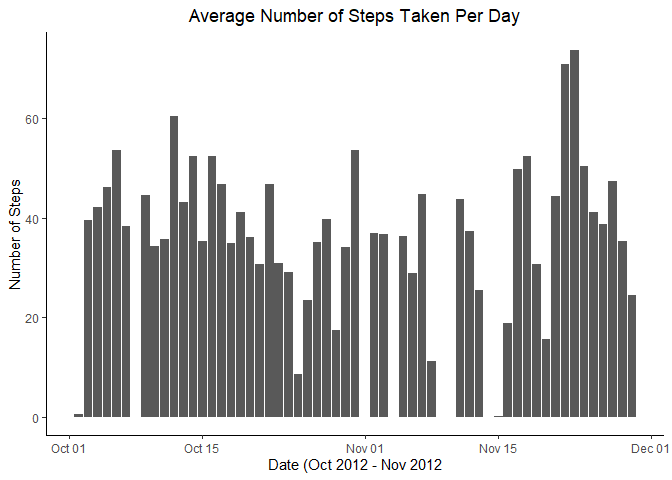
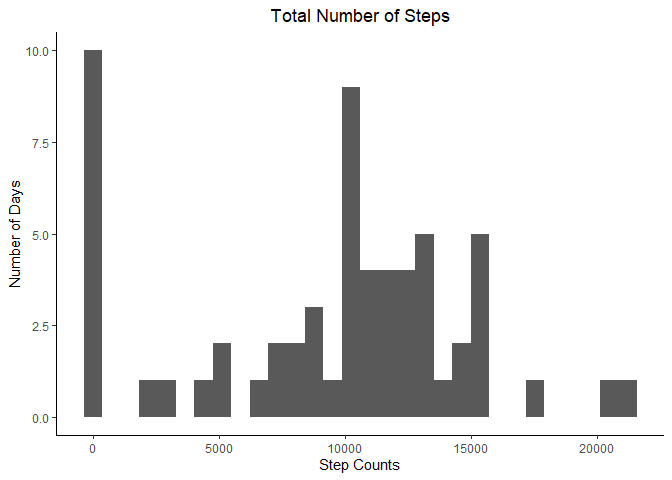
Completed the assignment.

diff --git a/PA1_template.html b/PA1_template.html
@@ -378,31 +378,112 @@ head(data)</code></pre>
 ## 4    NA 2012-10-01       15
 ## 5    NA 2012-10-01       20
 ## 6    NA 2012-10-01       25</code></pre>
-<pre class="r"><code>data$date &lt;- as.Date(data$date)</code></pre>
+<pre class="r"><code>data$date &lt;- as.Date(data$date)
+data$steps[data$steps == 0] &lt;- NA</code></pre>
 </div>
 <div id="what-is-mean-total-number-of-steps-taken-per-day" class="section level2">
 <h2>What is mean total number of steps taken per day?</h2>
 <pre class="r"><code>mean_steps &lt;- summarise(group_by(data, date), steps = mean(steps, na.rm = TRUE))</code></pre>
 <pre><code>## `summarise()` ungrouping output (override with `.groups` argument)</code></pre>
-<pre class="r"><code>g &lt;- ggplot(mean_steps, aes(x = date, y = steps)) + geom_bar(stat = &quot;identity&quot;) +
-  xlab(&quot;Date (Oct 2012 - Nov 2012&quot;) +
-  ylab(&quot;Number of Steps&quot;) +
-  ggtitle(&quot;Average Number of Steps Taken Per Day&quot;) +
+<pre class="r"><code>sum_steps &lt;- summarise(group_by(data, date), steps = sum(steps, na.rm = TRUE))</code></pre>
+<pre><code>## `summarise()` ungrouping output (override with `.groups` argument)</code></pre>
+<pre class="r"><code>g &lt;- ggplot(sum_steps, aes(x = steps)) + geom_histogram() +
+  xlab(&quot;Step Counts&quot;) +
+  ylab(&quot;Number of Days&quot;) +
+  ggtitle(&quot;Total Number of Steps&quot;) +
   theme_classic() +
   theme(plot.title = element_text(hjust = 0.5))
   
 g</code></pre>
-<pre><code>## Warning: Removed 8 rows containing missing values (position_stack).</code></pre>
[1 lines of base64/hex data omitted]
+<pre><code>## `stat_bin()` using `bins = 30`. Pick better value with `binwidth`.</code></pre>
[1 lines of base64/hex data omitted]
+<pre class="r"><code>mean_total &lt;- mean(sum_steps$steps, na.rm = TRUE)
+median_total &lt;- median(sum_steps$steps, na.rm = TRUE)
+
+print(paste(&quot;The mean value of steps per day:&quot;, round(mean_total,2)))</code></pre>
+<pre><code>## [1] &quot;The mean value of steps per day: 9354.23&quot;</code></pre>
+<pre class="r"><code>print(paste(&quot;The median value of steps per day:&quot;, median_total))</code></pre>
+<pre><code>## [1] &quot;The median value of steps per day: 10395&quot;</code></pre>
 </div>
 <div id="what-is-the-average-daily-activity-pattern" class="section level2">
 <h2>What is the average daily activity pattern?</h2>
+<pre class="r"><code>interval_data &lt;- summarise(group_by(data, interval), steps = mean(steps, na.rm = TRUE))</code></pre>
+<pre><code>## `summarise()` ungrouping output (override with `.groups` argument)</code></pre>
+<pre class="r"><code>interval_plot &lt;- ggplot(interval_data, aes(x = interval, y = steps)) + geom_line() +
+  ggtitle(&quot;Mean Steps per 5 Minute Interval&quot;) +
+  theme_classic() +
+  xlab(&quot;5 Minute Interval&quot;) +
+  ylab(&quot;Mean Steps&quot;) +
+  theme(plot.title = element_text(hjust = 0.5))
+interval_plot</code></pre>
[1 lines of base64/hex data omitted]
+<pre class="r"><code>print(paste(&quot;The interval containing the most steps on average: &quot;, interval_data$interval[which.max(interval_data$steps)]))</code></pre>
+<pre><code>## [1] &quot;The interval containing the most steps on average:  835&quot;</code></pre>
+<pre class="r"><code>print(paste(&quot;The average number of steps per that interval: &quot;, round(max(interval_data$steps, na.rm = TRUE), 2)))</code></pre>
+<pre><code>## [1] &quot;The average number of steps per that interval:  352.48&quot;</code></pre>
 </div>
 <div id="imputing-missing-values" class="section level2">
 <h2>Imputing missing values</h2>
+<pre class="r"><code>data_NA &lt;- read.csv(&quot;activity.csv&quot;)
+
+print(paste(&quot;The number of NA values in this dataset are: &quot;, sum(is.na(data_NA$steps))))</code></pre>
+<pre><code>## [1] &quot;The number of NA values in this dataset are:  2304&quot;</code></pre>
+<div id="missing-data-strategy" class="section level3">
+<h3>Missing Data Strategy</h3>
+<p>We can utilize the impute function in R. We will use the means to impute the missing values.</p>
+<pre class="r"><code>data_NA$steps &lt;- impute(data_NA$steps, fun = mean)
+
+sum_steps_NA &lt;- summarise(group_by(data_NA, date), steps = sum(steps, na.rm = TRUE))</code></pre>
+<pre><code>## `summarise()` ungrouping output (override with `.groups` argument)</code></pre>
+<pre class="r"><code>g &lt;- ggplot(sum_steps_NA, aes(x = steps)) + geom_histogram() +
+  xlab(&quot;Step Counts&quot;) +
+  ylab(&quot;Number of Days&quot;) +
+  ggtitle(&quot;Total Number of Steps&quot;) +
+  theme_classic() +
+  theme(plot.title = element_text(hjust = 0.5))
+
+g</code></pre>
+<pre><code>## `stat_bin()` using `bins = 30`. Pick better value with `binwidth`.</code></pre>
[1 lines of base64/hex data omitted]
+<pre class="r"><code>mean_total_NA &lt;- mean(sum_steps_NA$steps, na.rm = TRUE)
+median_total_NA &lt;- median(sum_steps_NA$steps, na.rm = TRUE)
+
+print(paste(&quot;The mean value of steps per day:&quot;, round(mean_total_NA,2)))</code></pre>
+<pre><code>## [1] &quot;The mean value of steps per day: 10766.19&quot;</code></pre>
+<pre class="r"><code>print(paste(&quot;The median value of steps per day:&quot;, round(median_total_NA, 2)))</code></pre>
+<pre><code>## [1] &quot;The median value of steps per day: 10766.19&quot;</code></pre>
+<p>The value for the mean and median end up being the same in this data set because the imputation method massages the data set to be much more symmetrical around the mean value. It suppresses the large number of 0 values in the original data set and feeds in the mean value for those days into the spaces that 0’s where found. This forces the mean to increase but also pushes the median value up because of the much larger presence of mean values.</p>
+</div>
 </div>
 <div id="are-there-differences-in-activity-patterns-between-weekdays-and-weekends" class="section level2">
 <h2>Are there differences in activity patterns between weekdays and weekends?</h2>
+<pre class="r"><code>data_we &lt;- data_NA
+data_we$date &lt;- as.Date(data_we$date)
+data_we$day &lt;- ifelse(weekdays(data_we$date) %in% c(&quot;Saturday&quot;, &quot;Sunday&quot;), &quot;weekend&quot;, &quot;weekday&quot;)
+data_we$day &lt;- as.factor(data_we$day)
+
+
+weekend &lt;- filter(data_we, data_we$day == &quot;weekend&quot;)
+weekday &lt;- filter(data_we, data_we$day == &quot;weekday&quot;)
+
+weekend &lt;- summarise(group_by(weekend, interval), steps = mean(steps))</code></pre>
+<pre><code>## `summarise()` ungrouping output (override with `.groups` argument)</code></pre>
+<pre class="r"><code>weekday &lt;- summarise(group_by(weekday, interval), steps = mean(steps))</code></pre>
+<pre><code>## `summarise()` ungrouping output (override with `.groups` argument)</code></pre>
+<pre class="r"><code>weekend$day &lt;- &quot;weekend&quot;
+weekday$day &lt;- &quot;weekday&quot;
+
+combined &lt;- rbind(weekend, weekday)
+combined$day &lt;- as.factor(combined$day)
+
+g &lt;- ggplot(combined, aes(interval, steps))
+g + geom_line() +
+  facet_grid(day~.) +
+  xlab(&quot;Interval&quot;) +
+  ylab(&quot;Number of Steps&quot;) +
+  ggtitle(&quot;Average Number of Steps: Weeknd v. Weekday&quot;) +
+  theme(plot.title = element_text(hjust = 0.5))</code></pre>
[1 lines of base64/hex data omitted]
 </div>
 
 

diff --git a/PA1_template.md b/PA1_template.md
@@ -29,6 +29,7 @@ head(data)
 
 ```r
 data$date <- as.Date(data$date)
+data$steps[data$steps == 0] <- NA
 ```
 
 
@@ -43,10 +44,18 @@ mean_steps <- summarise(group_by(data, date), steps = mean(steps, na.rm = TRUE))
 ```
 
 ```r
-g <- ggplot(mean_steps, aes(x = date, y = steps)) + geom_bar(stat = "identity") +
-  xlab("Date (Oct 2012 - Nov 2012") +
-  ylab("Number of Steps") +
-  ggtitle("Average Number of Steps Taken Per Day") +
+sum_steps <- summarise(group_by(data, date), steps = sum(steps, na.rm = TRUE))
+```
+
+```
+## `summarise()` ungrouping output (override with `.groups` argument)
+```
+
+```r
+g <- ggplot(sum_steps, aes(x = steps)) + geom_histogram() +
+  xlab("Step Counts") +
+  ylab("Number of Days") +
+  ggtitle("Total Number of Steps") +
   theme_classic() +
   theme(plot.title = element_text(hjust = 0.5))
   
@@ -54,19 +63,188 @@ g
 ```
 
 ```
-## Warning: Removed 8 rows containing missing values (position_stack).
+## `stat_bin()` using `bins = 30`. Pick better value with `binwidth`.
 ```
 
 ![](PA1_template_files/figure-html/unnamed-chunk-3-1.png)<!-- -->
 
+```r
+mean_total <- mean(sum_steps$steps, na.rm = TRUE)
+median_total <- median(sum_steps$steps, na.rm = TRUE)
+
+print(paste("The mean value of steps per day:", round(mean_total,2)))
+```
+
+```
+## [1] "The mean value of steps per day: 9354.23"
+```
+
+```r
+print(paste("The median value of steps per day:", median_total))
+```
+
+```
+## [1] "The median value of steps per day: 10395"
+```
+
 
 
 ## What is the average daily activity pattern?
+
+```r
+interval_data <- summarise(group_by(data, interval), steps = mean(steps, na.rm = TRUE))
+```
+
+```
+## `summarise()` ungrouping output (override with `.groups` argument)
+```
+
+```r
+interval_plot <- ggplot(interval_data, aes(x = interval, y = steps)) + geom_line() +
+  ggtitle("Mean Steps per 5 Minute Interval") +
+  theme_classic() +
+  xlab("5 Minute Interval") +
+  ylab("Mean Steps") +
+  theme(plot.title = element_text(hjust = 0.5))
+interval_plot
+```
+
+![](PA1_template_files/figure-html/unnamed-chunk-5-1.png)<!-- -->
+
+```r
+print(paste("The interval containing the most steps on average: ", interval_data$interval[which.max(interval_data$steps)]))
+```
+
+```
+## [1] "The interval containing the most steps on average:  835"
+```
+
+```r
+print(paste("The average number of steps per that interval: ", round(max(interval_data$steps, na.rm = TRUE), 2)))
+```
+
+```
+## [1] "The average number of steps per that interval:  352.48"
+```
 
 
 
 ## Imputing missing values
 
 
+```r
+data_NA <- read.csv("activity.csv")
+
+print(paste("The number of NA values in this dataset are: ", sum(is.na(data_NA$steps))))
+```
+
+```
+## [1] "The number of NA values in this dataset are:  2304"
+```
+### Missing Data Strategy
+
+We can utilize the impute function in R. We will use the means to impute the missing values.
+
+
+```r
+data_NA$steps <- impute(data_NA$steps, fun = mean)
+
+sum_steps_NA <- summarise(group_by(data_NA, date), steps = sum(steps, na.rm = TRUE))
+```
+
+```
+## `summarise()` ungrouping output (override with `.groups` argument)
+```
+
+```r
+g <- ggplot(sum_steps_NA, aes(x = steps)) + geom_histogram() +
+  xlab("Step Counts") +
+  ylab("Number of Days") +
+  ggtitle("Total Number of Steps") +
+  theme_classic() +
+  theme(plot.title = element_text(hjust = 0.5))
+
+g
+```
+
+```
+## `stat_bin()` using `bins = 30`. Pick better value with `binwidth`.
+```
+
+![](PA1_template_files/figure-html/unnamed-chunk-7-1.png)<!-- -->
+
+```r
+mean_total_NA <- mean(sum_steps_NA$steps, na.rm = TRUE)
+median_total_NA <- median(sum_steps_NA$steps, na.rm = TRUE)
+
+print(paste("The mean value of steps per day:", round(mean_total_NA,2)))
+```
+
+```
+## [1] "The mean value of steps per day: 10766.19"
+```
+
+```r
+print(paste("The median value of steps per day:", round(median_total_NA, 2)))
+```
+
+```
+## [1] "The median value of steps per day: 10766.19"
+```
+The value for the mean and median end up being the same in this data set because the imputation method massages the data set to be much more symmetrical around the mean value. It suppresses the large number of 0 values in the original data set and feeds in the mean value for those days into the spaces that 0's where found. This forces the mean to increase but also pushes the median value up because of the much larger presence of mean values.
 
 ## Are there differences in activity patterns between weekdays and weekends?
+
+
+
+```r
+data_we <- data_NA
+data_we$date <- as.Date(data_we$date)
+data_we$day <- ifelse(weekdays(data_we$date) %in% c("Saturday", "Sunday"), "weekend", "weekday")
+data_we$day <- as.factor(data_we$day)
+
+
+weekend <- filter(data_we, data_we$day == "weekend")
+weekday <- filter(data_we, data_we$day == "weekday")
+
+weekend <- summarise(group_by(weekend, interval), steps = mean(steps))
+```
+
+```
+## `summarise()` ungrouping output (override with `.groups` argument)
+```
+
+```r
+weekday <- summarise(group_by(weekday, interval), steps = mean(steps))
+```
+
+```
+## `summarise()` ungrouping output (override with `.groups` argument)
+```
+
+```r
+weekend$day <- "weekend"
+weekday$day <- "weekday"
+
+combined <- rbind(weekend, weekday)
+combined$day <- as.factor(combined$day)
+
+g <- ggplot(combined, aes(interval, steps))
+g + geom_line() +
+  facet_grid(day~.) +
+  xlab("Interval") +
+  ylab("Number of Steps") +
+  ggtitle("Average Number of Steps: Weeknd v. Weekday") +
+  theme(plot.title = element_text(hjust = 0.5))
+```
+
+![](PA1_template_files/figure-html/unnamed-chunk-8-1.png)<!-- -->
+The above chart shows the differences between weekend and weekday activity. We can see right away that the weekend activity is consistently higher than weekday activity throughout the midday. We also see large spikes of activity during the weekday in the morning presumable when people are going to work or moving to prepare for the day. 
+
+
+
+
+
+
+
+
